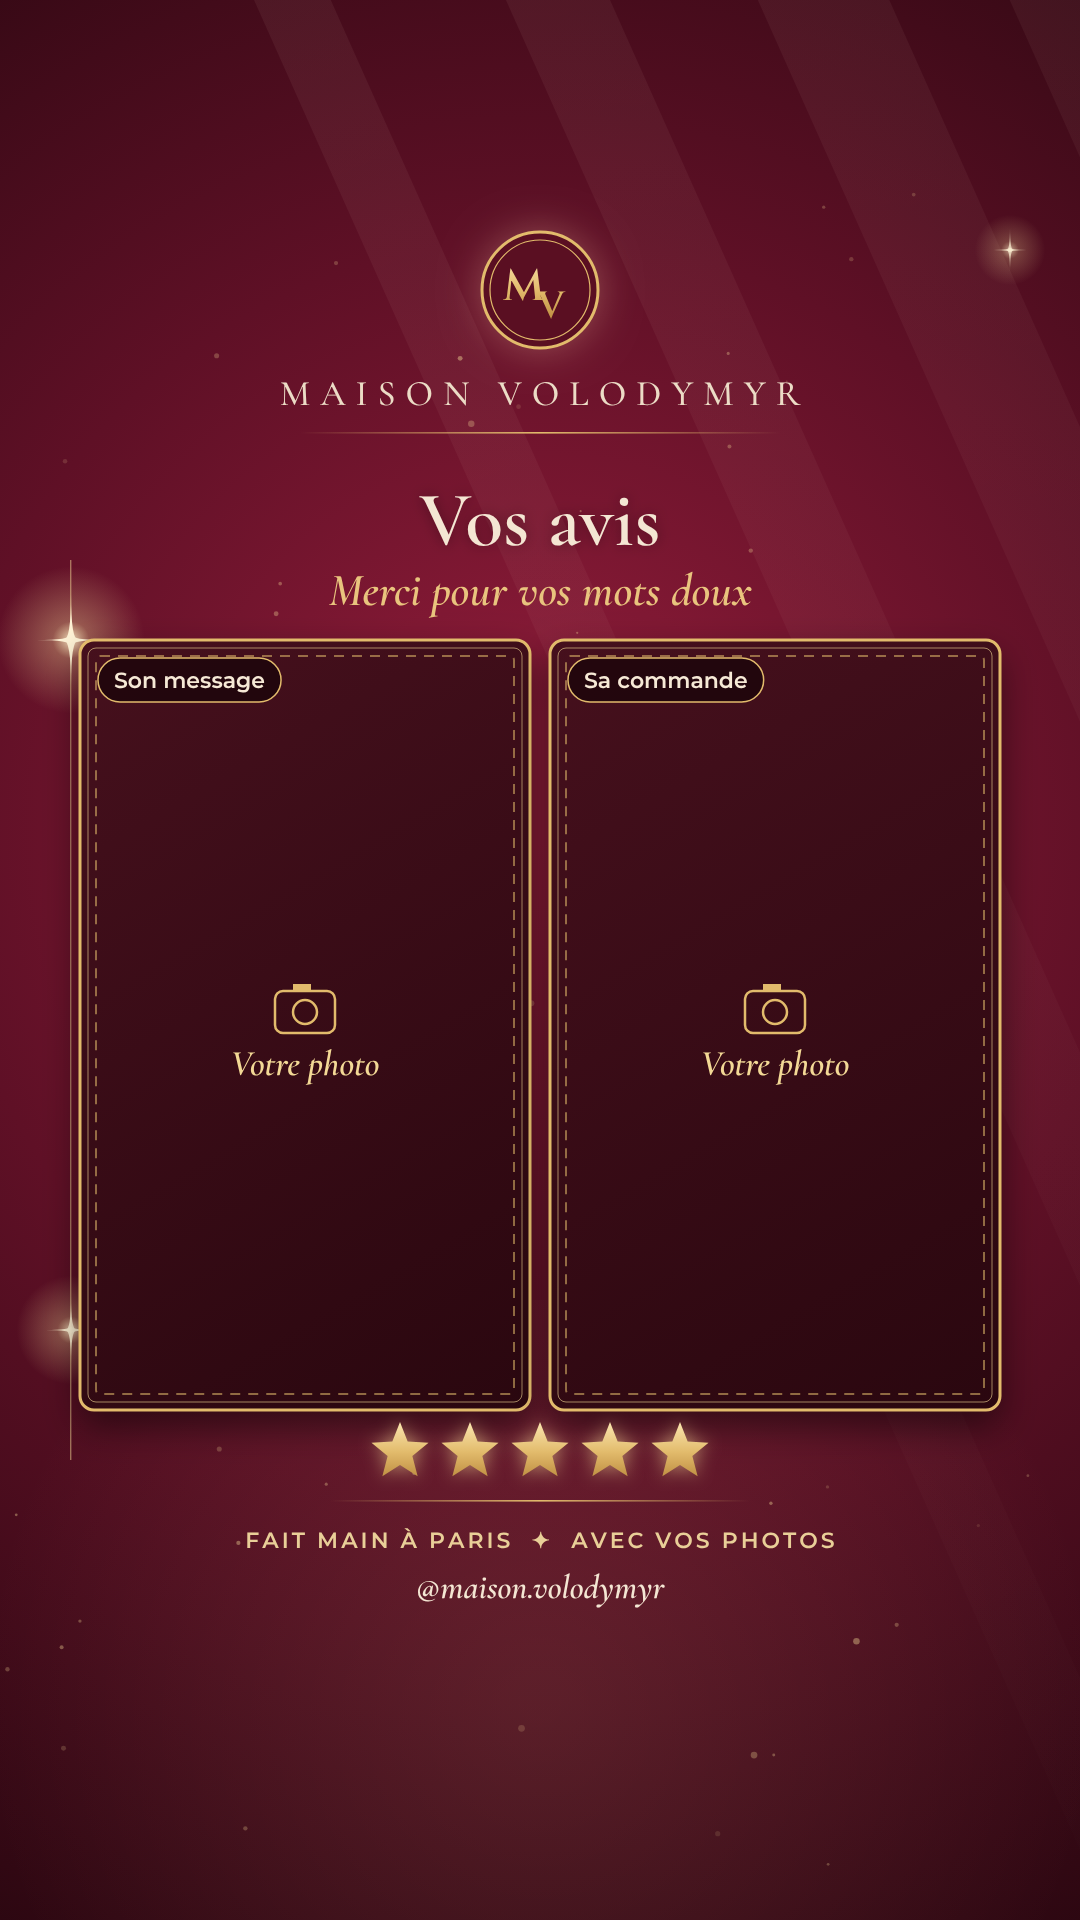
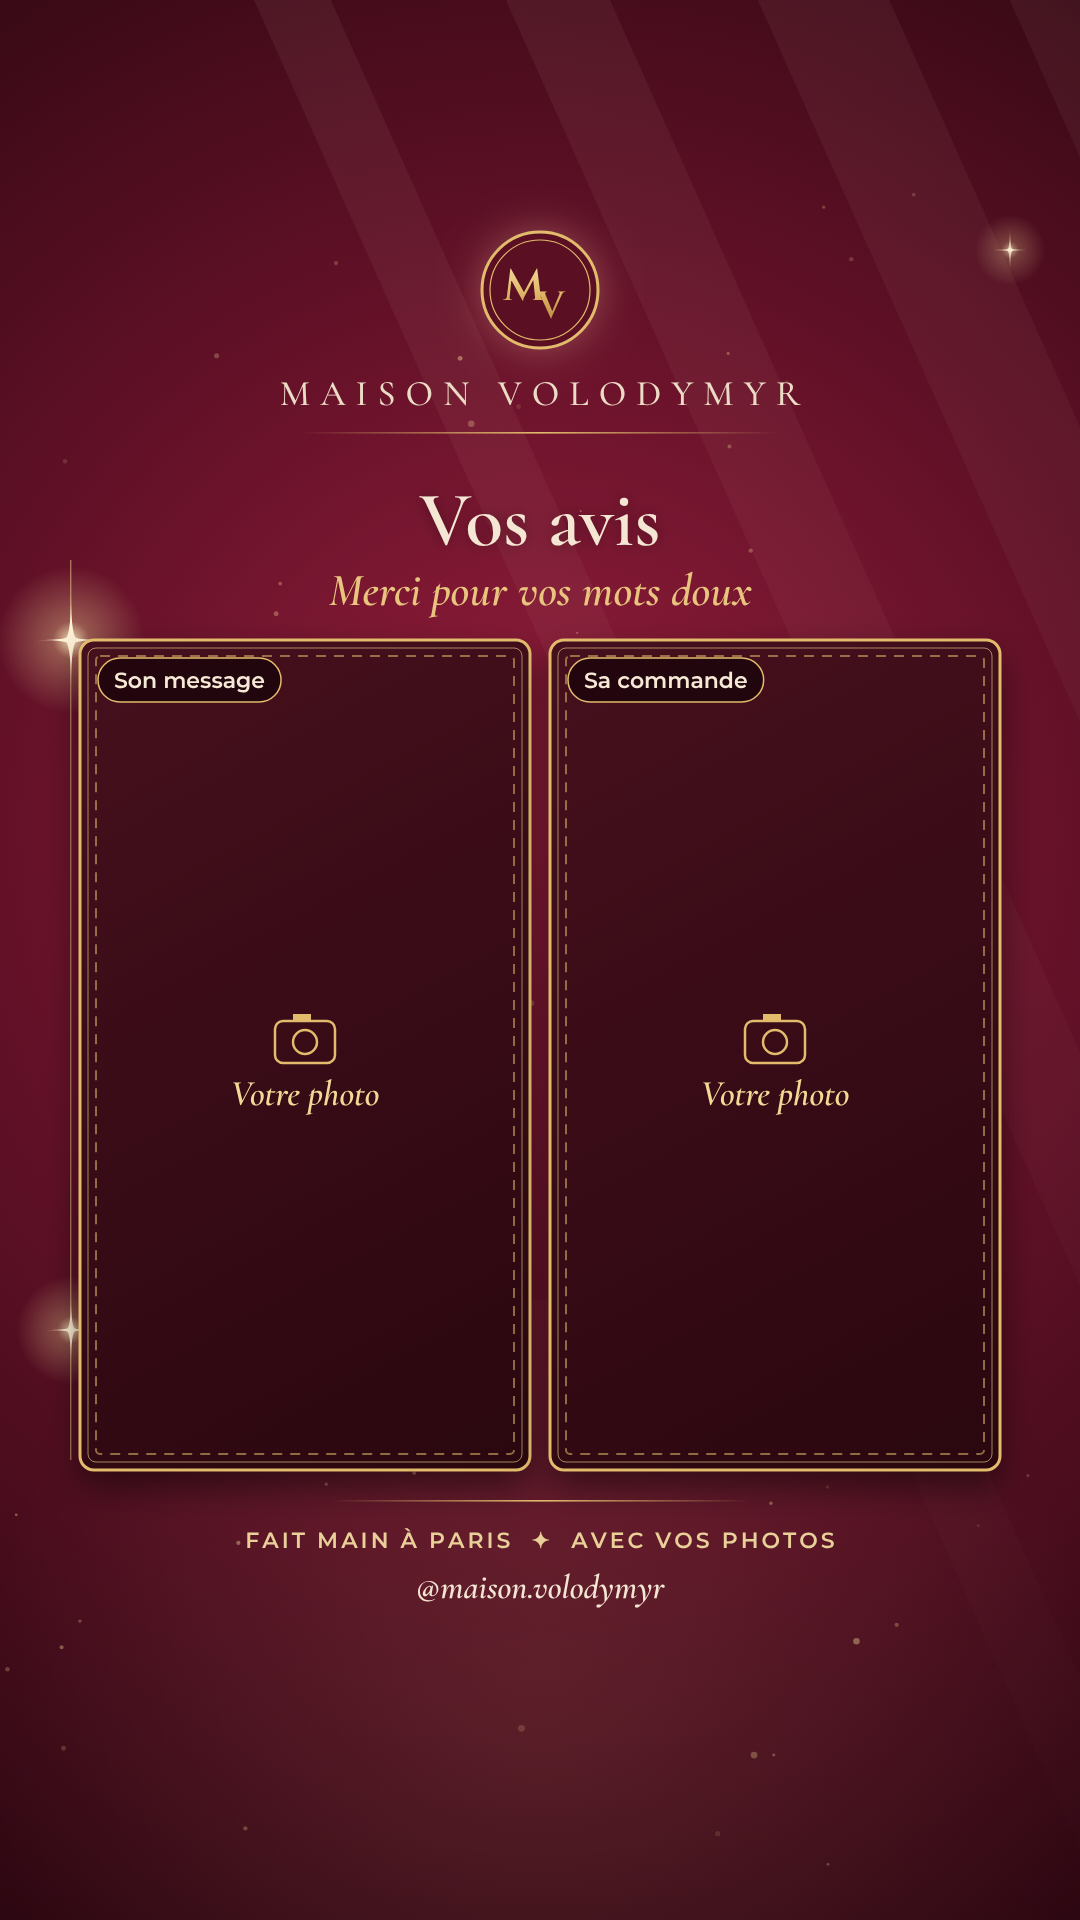
Studio reviews: remove stars, taller frames
Claude-Session: https://claude.ai/code/session_01NVYZfQU8cBxnfbyUcCNFxq

Changed region(s): [[0.0611, 0.7188, 0.9472, 0.7812], [0.2139, 0.5, 0.3361, 0.5938], [0.6722, 0.5, 0.7639, 0.5938]]

diff --git a/studio/studio.html b/studio/studio.html
@@ -74,7 +74,7 @@ const SL=[
   el:[{t:'slot',x:95,y:640,w:890,h:840,k:'gold'}]},
  {id:'fond',name:'🎨 Пустой фон',title:'{t}',sub:'{sb}',f:{t:'Nos créations',sb:'Fait main, avec amour'},fl:{t:'Заголовок (можно стереть)',sb:'Подзаголовок (можно стереть)'},el:[]},
  {id:'avis',name:'⭐ Отзывы',title:'Vos avis',sub:'Merci pour vos mots doux',f:{m:'Son message',c:'Sa commande'},fl:{m:'Подпись над скриншотом',c:'Подпись над фото заказа'},
-  el:[{t:'slot',x:80,y:640,w:450,h:770,k:'gold',tag:'{m}',fit:'contain'},{t:'slot',x:550,y:640,w:450,h:770,k:'gold',tag:'{c}'},{t:'stars',x:540,y:1452}]},
+  el:[{t:'slot',x:80,y:640,w:450,h:830,k:'gold',tag:'{m}',fit:'contain'},{t:'slot',x:550,y:640,w:450,h:830,k:'gold',tag:'{c}'}]},
  {id:'coffrets',name:'🎁 Наборы',title:'Coffrets cadeaux',sub:'Prêts à offrir, coffret inclus',f:{n1:'Coffret Prestige',p1:'',n2:'Coffret Famille',p2:'',n3:'Coffret Noël',p3:''},fl:{n1:'Набор 1',p1:'Цена 1',n2:'Набор 2',p2:'Цена 2',n3:'Набор 3',p3:'Цена 3'},
   el:[{t:'slot',x:80,y:670,w:920,h:360,k:'gold',tag:'{n1}'},{t:'pill',x:830,y:1030,txt:'{p1}'},{t:'slot',x:80,y:1080,w:440,h:290,k:'gold',tag:'{n2}'},{t:'pill',x:300,y:1370,txt:'{p2}',sz:44},{t:'slot',x:560,y:1080,w:440,h:290,k:'gold',tag:'{n3}'},{t:'pill',x:780,y:1370,txt:'{p3}',sz:44}]}
 ];
